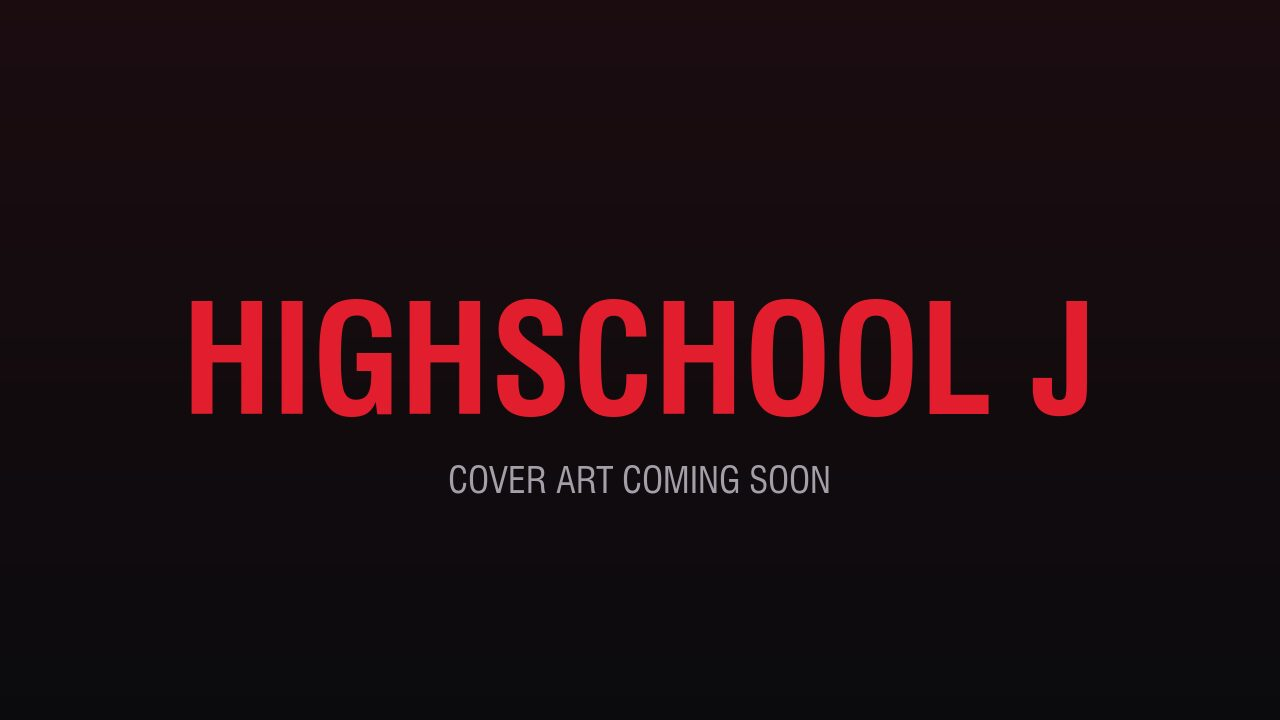
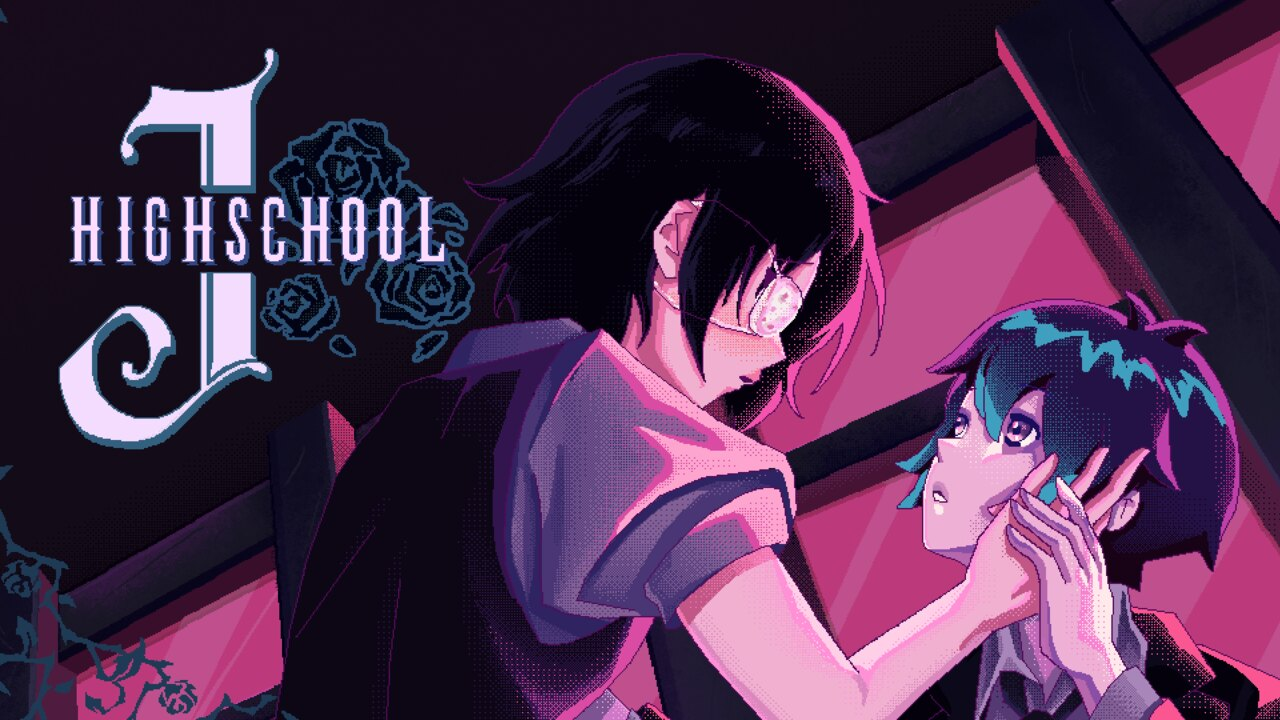
Show all four games on Home with Highschool J first; add real Highschool J cover
- Replace placeholder cover with final Highschool J art (1280x720 JPEG)
- Home game cards: all four games in a 2x2 grid; Highschool J listed first
- Anomalistic Revolution stays the featured game (trailer) via `featured: true`

Claude-Session: https://claude.ai/code/session_01RUfWimff9Pp2V9nWXhMgyu

diff --git a/docs/assets/css/main.css b/docs/assets/css/main.css
@@ -283,6 +283,7 @@ h1 em { font-style: normal; color: var(--accent); }
 @media (min-width: 700px) {
   :root { --gutter: 32px; --header-h: 72px; }
   .grid { grid-template-columns: repeat(2, 1fr); gap: 24px; }
+  .feature-grid { grid-template-columns: repeat(2, 1fr); gap: 28px; }
   .split { grid-template-columns: 1fr 1.6fr; gap: 48px; }
   .work-body { grid-template-columns: 1.6fr 1fr; gap: 56px; }
   .values { grid-template-columns: repeat(3, 1fr); }
@@ -305,7 +306,6 @@ h1 em { font-style: normal; color: var(--accent); }
   .site-nav a::after { content: ""; position: absolute; left: 16px; right: 16px; bottom: 4px; height: 2px; background: var(--accent); transform: scaleX(0); transition: transform .25s; }
   .site-nav a:hover::after, .site-nav a[aria-current="page"]::after { transform: scaleX(1); }
   .grid { grid-template-columns: repeat(3, 1fr); }
-  .feature-grid { grid-template-columns: repeat(3, 1fr); gap: 28px; }
   .feature-body { padding: 28px 26px 30px; }
   .site-nav { margin-left: auto; margin-right: 20px; }
   .header-actions { margin-left: 0; }

diff --git a/docs/_includes/pages/home.html b/docs/_includes/pages/home.html
@@ -1,6 +1,6 @@
 {%- assign t = site.data.i18n[page.lang] -%}
 {%- if page.lang == "tr" -%}{%- assign works = site.works_tr | sort: "order" -%}{%- else -%}{%- assign works = site.works | sort: "order" -%}{%- endif -%}
-{%- assign featured = works | first -%}
+{%- assign featured = works | where: "featured", true | first -%}
 <section class="hero">
   <div class="container hero-inner">
     <p class="eyebrow">{{ t.home.eyebrow }}</p>
@@ -45,7 +45,7 @@
       <a class="btn btn-link" href="{{ t.base | append: '/works/' | relative_url }}">{{ t.ui.view_all }} <span aria-hidden="true">→</span></a>
     </div>
     <div class="feature-grid">
-      {% for w in works limit: 3 %}{% include work-feature.html work=w %}{% endfor %}
+      {% for w in works %}{% include work-feature.html work=w %}{% endfor %}
     </div>
   </div>
 </section>

diff --git a/docs/_works_tr/dissolution-of-the-silent-union.md b/docs/_works_tr/dissolution-of-the-silent-union.md
@@ -2,7 +2,7 @@
 ref: dissolution-of-the-silent-union
 lang: tr
 title: "Dissolution of the Silent Union"
-order: 2
+order: 3
 genre: "Görsel Roman"
 tagline: "Kısa, anlatı odaklı bir görsel roman."
 cover: /assets/img/games/dissolution-of-the-silent-union.jpg

diff --git a/docs/_works/anomalistic-revolution.md b/docs/_works/anomalistic-revolution.md
@@ -2,7 +2,8 @@
 ref: anomalistic-revolution
 lang: en
 title: "Anomalistic Revolution"
-order: 1
+featured: true
+order: 2
 genre: "RPG · Runner"
 tagline: "Anime-styled RPG adventure with runner mechanics."
 cover: /assets/img/games/anomalistic-revolution.jpg

diff --git a/docs/_works/dissolution-of-the-silent-union.md b/docs/_works/dissolution-of-the-silent-union.md
@@ -2,7 +2,7 @@
 ref: dissolution-of-the-silent-union
 lang: en
 title: "Dissolution of the Silent Union"
-order: 2
+order: 3
 genre: "Visual Novel"
 tagline: "A short, narrative-driven visual novel."
 cover: /assets/img/games/dissolution-of-the-silent-union.jpg

diff --git a/docs/_works_tr/anomalistic-revolution.md b/docs/_works_tr/anomalistic-revolution.md
@@ -2,7 +2,8 @@
 ref: anomalistic-revolution
 lang: tr
 title: "Anomalistic Revolution"
-order: 1
+featured: true
+order: 2
 genre: "RPG · Koşu"
 tagline: "Anime tarzında, koşu mekanikli RPG macerası."
 cover: /assets/img/games/anomalistic-revolution.jpg

diff --git a/docs/_works_tr/arbeiter.md b/docs/_works_tr/arbeiter.md
@@ -2,7 +2,7 @@
 ref: arbeiter
 lang: tr
 title: "Arbeiter"
-order: 3
+order: 4
 genre: "Hayatta Kalma · Yönetim"
 tagline: "İş gününü atlatmaya çalışmayı anlatan bir hayatta kalma ve yönetim oyunu."
 cover: /assets/img/games/arbeiter.jpg

diff --git a/docs/_works_tr/highschool-j.md b/docs/_works_tr/highschool-j.md
@@ -2,7 +2,7 @@
 ref: highschool-j
 lang: tr
 title: "Highschool J"
-order: 4
+order: 1
 genre: "Macera · Psikolojik Korku"
 tagline: "Bazı varlıklara karşı koyamazsınız. Sadece teslim olabilirsiniz."
 cover: /assets/img/games/highschool-j.jpg

diff --git a/docs/_works/highschool-j.md b/docs/_works/highschool-j.md
@@ -2,7 +2,7 @@
 ref: highschool-j
 lang: en
 title: "Highschool J"
-order: 4
+order: 1
 genre: "Adventure · Psychological Horror"
 tagline: "Some presences cannot be resisted. Only surrender is possible."
 cover: /assets/img/games/highschool-j.jpg

diff --git a/docs/_works/arbeiter.md b/docs/_works/arbeiter.md
@@ -2,7 +2,7 @@
 ref: arbeiter
 lang: en
 title: "Arbeiter"
-order: 3
+order: 4
 genre: "Survival · Management"
 tagline: "A survival-management game about getting through the workday."
 cover: /assets/img/games/arbeiter.jpg
